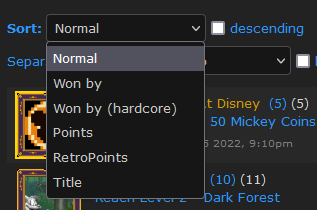
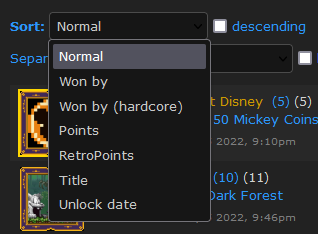
RA_EnhancedCheevosSort: adds sort by unlock date + update documentation

Changed region(s): [[0.0, 0.0571, 1.0, 1.0]]

diff --git a/RA_EnhancedCheevosSort.user.js b/RA_EnhancedCheevosSort.user.js
@@ -42,6 +42,15 @@ const MainSorts = {
         label: 'Title',
         extractInfo: r1 => { r1.title = r1.element.querySelector('div > a.inline').innerText },
         compare: (r1, r2) => r1.title.localeCompare(r2.title)
+    },
+    'unlock-date': {
+        label: 'Unlock date',
+        extractInfo: r => {
+            r.unlockDate = r.index; // to sort locked achievements with "normal" order
+            const match = r.element.querySelector('li.unlocked-row p.leading-4 + p')?.innerText?.match(/Unlocked\s+(.+)([ap]m)/i);
+            if (match != null) r.unlockDate = Date.parse(match[1] + ' ' + match[2]);
+        },
+        compare: (r1, r2) => r1.unlockDate - r2.unlockDate
     }
 };
 

diff --git a/README.md b/README.md
@@ -42,7 +42,7 @@ Modifies the sorting of achievements on a game page.
 
 1. The sorting is done on client side, without any additional request to the server. It is faster, and removes some load on the server.
 
-2. Adds sort by "Won by (hardcore)" and by RetroPoints
+2. Adds sort by "Won by (hardcore)", RetroPoints and "Unlock date". For the last one, normal sort is used for locked achievements.
 
 ![main sorts](/assets/EnhancedCheevosSort_main_sorts.png)
 
